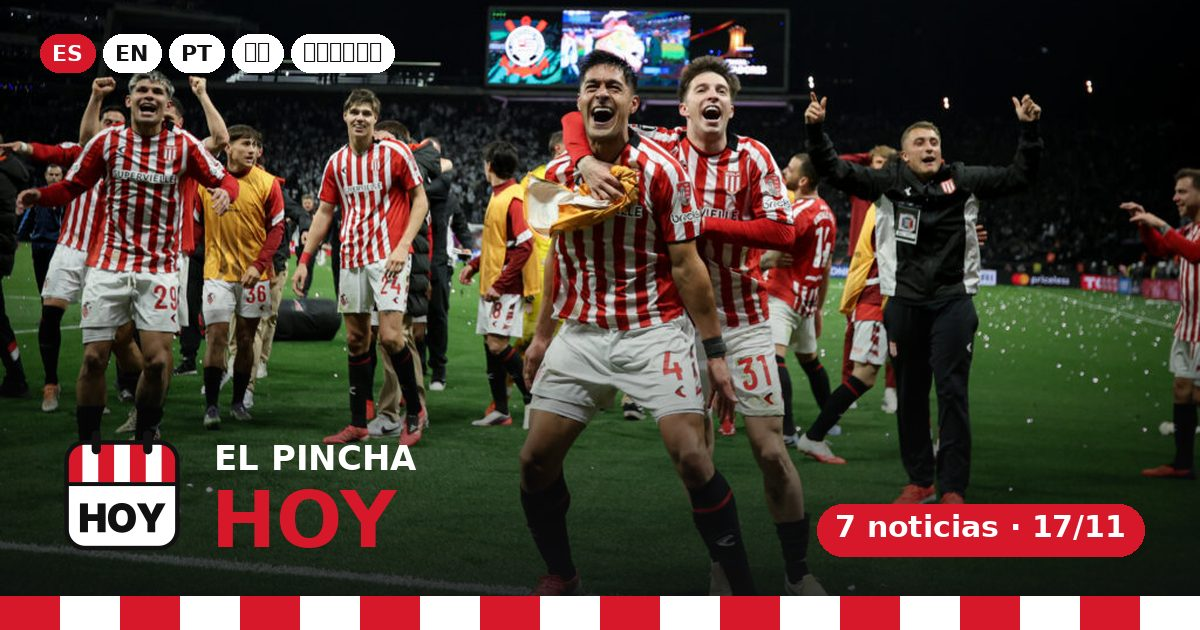
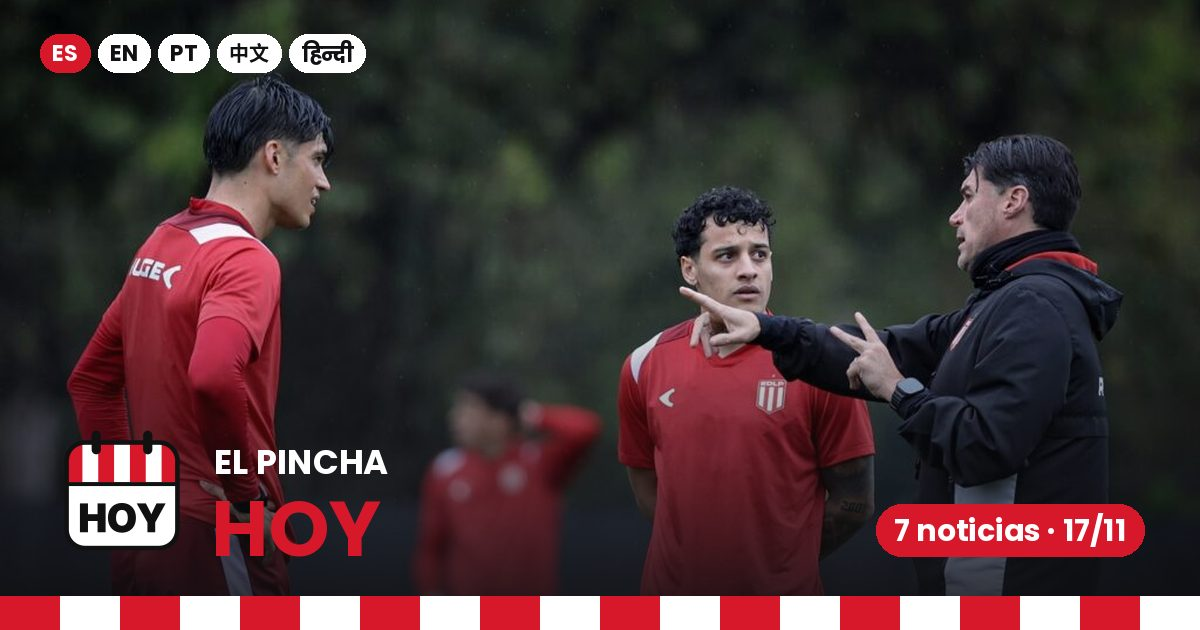
Notipinchas a su página (link debajo de las Siete), foto de Hoy rota (máx. 3 días), otros deportes máx. 1 y un solo día; búsqueda activa y 3 corridas por día
Claude-Session: https://claude.ai/code/session_01S6FXp1PELkUuP6Mekk8MTq

diff --git a/src/styles.css b/src/styles.css
@@ -509,3 +509,9 @@ body:has(.pegado--on) .footer { padding-bottom: 84px; }
 
 .siete__lema { margin: -6px 0 12px; font-size: .92rem; opacity: .8; }
 .siete__titulo:has(+ .siete__lema) { margin-bottom: 8px; }
+
+/* Link a Notipinchas debajo de las Siete (en la portada no va la lista) */
+.siete__mas { margin: 14px 0 0; font-weight: 800; font-size: 1rem; }
+.siete__mas a { display: inline-flex; align-items: center; gap: 8px; text-decoration: none; color: #fff; border-bottom: 2px solid var(--rojo); padding-bottom: 2px; }
+.notipinchas { padding-top: 24px; }
+.notipinchas h1.linea__titulo { font-size: 1.1rem; }

diff --git a/ACTUALIZAR.md b/ACTUALIZAR.md
@@ -1,6 +1,6 @@
 # Instrucciones de actualización automática
 
-Este archivo lo sigue la tarea programada que mantiene El Pincha Hoy. Corre dos veces por día (mañana y noche).
+Este archivo lo sigue la tarea programada que mantiene El Pincha Hoy. Corre tres veces por día, en hora argentina: **00:07** (pasa al día nuevo), **08:07** (lo de la mañana, antes del posteo de X de las 09:47) y **18:07** (lo de la tarde: prácticas, conferencias, parte médico).
 Objetivo: que `data/home.json` y sus traducciones reflejen **cómo está hoy Estudiantes de La Plata**.
 
 ## Reglas de oro
@@ -10,6 +10,11 @@ Objetivo: que `data/home.json` y sus traducciones reflejen **cómo está hoy Est
 3. Horarios siempre en **hora argentina** (`-03:00`). Atención con páginas que muestran otra zona horaria.
 4. **Textos propios**, nunca copiados: titulares y bajadas reescritos, cortos, en tono de hincha pero informativo.
 5. Si no hay novedades, **no se hace commit**.
+
+## Búsqueda activa (obligatoria para las Siete)
+
+La cobertura por RSS es el piso, no el techo. En cada corrida, además de `npm run cobertura`, hacer **al menos 6 búsquedas** (WebSearch, en la misma vuelta) sobre el **fútbol profesional**, con ángulos distintos: parte médico / lesionados, entrenamiento y probable equipo, declaraciones (Medina, jugadores, Verón), el rival que viene (lesiones, calendario, prensa de su país), socios / entradas / viaje, y mercado o calendario que viene (torneos, sedes, fixture). Sumar la prensa del país del rival cuando hay copa (ej. Brasil con Palmeiras).
+Lo que sea nuevo y confirmado reemplaza a lo que ya se contó días anteriores.
 
 ## Primer paso: cobertura por RSS
 
@@ -77,12 +82,14 @@ Las ventanas que ya cerraron se sacan.
 - **proximos**: próximos partidos oficiales confirmados (máx. 4), ordenados por fecha. Sacar los ya jugados.
 - **tabla** y **posiciones**: tabla del torneo en curso (zona de Estudiantes), puesto en la anual y en promedios. Si el torneo terminó, la tabla final con su nombre indicando que es final. `clasifican` según el formato vigente.
 - **proximos[].destacado**: `true` en el partido más importante que viene (activa la cuenta regresiva arriba de todo). Uno solo; sacarlo cuando se juegue.
-- **hoy**: titular + resumen (2 frases; no se muestra en la portada, queda en la página del día) + **Siete noticias** + Notipinchas. Orden de la portada: foto y titular → Siete noticias → próximo partido, último resultado y cuenta regresiva → la canción (plegada) → El Club → Notipinchas en los medios → tabla y números del club.
+- **hoy**: titular + resumen (2 frases; no se muestra en la portada, queda en la página del día) + **Siete noticias** + Notipinchas. Orden de la portada: foto y titular → Siete noticias → link "Notipinchas en los medios" (la lista va en su página, `/notipinchas/`) → próximo partido, último resultado y cuenta regresiva → la canción (plegada) → El Club → Notipinchas en los medios → tabla y números del club.
 - **hoy.siete** ("El Pincha Hoy · Siete noticias", EL bloque de la portada: va primero, debajo de la foto y el titular; todo lo demás es yapa): **exactamente 7**, numeradas por importancia para el hincha, de lo que pasó en cualquier medio o en el club, procesado y con palabras propias. Cada una: `titulo` (corto, concreto: "Correa, en duda para la final") y `texto` (1–2 frases con la información completa, para que no haga falta hacer clic). **Sin fuente ni link** (eso va en Notipinchas). Mismas reglas de verificación que todo (dos fuentes para lo crítico; si algo está en duda, decirlo así). No repetir lo que ya muestra la franja de arriba (fecha y hora del próximo partido, último resultado, cuenta regresiva). Si hay venta de entradas o trámite de socios en curso, va primero. Lo que ya pasó o venció (un evento de anoche) se reemplaza.
-- **hoy.linea** ("Notipinchas en los medios", debajo de las Siete): las notas de los medios y del club de las **últimas 72 h**, de la más nueva a la más vieja, **8 a 14**. Cada una: `hora` (hora real de la publicación, en hora argentina; si el medio no publica la hora, poner `T00:00:00-03:00`), `texto` (una frase propia que resuma la nota), `fuente` ("Club" si es oficial, si no el medio) y `url` (la nota original). En la portada no se muestra la hora. Puede contar lo mismo que una de las Siete: acá el hincha va a la fuente.
+  - **Otros deportes e inferiores** (básquet, vóley, hockey, fútbol femenino, Reserva, juveniles, etc.): **como máximo 1 por día, solo si no hay suficientes noticias del fútbol profesional**, y **una sola vez**: nunca la misma noticia dos días (ni seguidos ni salteados). El título empieza con el deporte o la división ("Básquet: …"). Antes de recurrir a una, hacer la búsqueda activa de arriba. El build lo controla y falla.
+  - Una noticia del fútbol profesional puede seguir si hay **un dato nuevo**; si no cambió nada, darle el lugar a algo nuevo.
+- **hoy.linea** ("Notipinchas en los medios": en la portada solo un link debajo de las Siete; la lista se ve en `/notipinchas/`): las notas de los medios y del club de las **últimas 72 h**, de la más nueva a la más vieja, **8 a 14**. Cada una: `hora` (hora real de la publicación, en hora argentina; si el medio no publica la hora, poner `T00:00:00-03:00`), `texto` (una frase propia que resuma la nota), `fuente` ("Club" si es oficial, si no el medio) y `url` (la nota original). En la portada no se muestra la hora. Puede contar lo mismo que una de las Siete: acá el hincha va a la fuente.
 - **club**: socios y balance solo si hay un dato oficial nuevo. Campaña de socios: mantener el link. No publicar cuotas ni precios: para eso está el link del club. La cita de Verón y el bloque "mística" no se tocan: es el tono del sitio (apoyar al club, no obtener beneficios).
 - **Sección Mundo** (`data/mundo.json` + `data/i18n/mundo.<idioma>.json`): revisar una vez por semana o cuando haya novedad. Filiales nuevas en https://estudiantesdelaplata.com/filiales/, y la situación rumbo al Mundial de Clubes 2029 (ranking CONMEBOL, clasificación). Después de la final del 28/11, actualizar la nota y el bloque del Mundial según el resultado.
-- **hoy.foto** (foto principal, con el titular encima): solo del banco `imagenes/`, y **nunca una foto que el club publicó hace menos de 7 días** (exclusividad del club: no usarlas a la par; el build lo controla y falla) (ver `imagenes/README.md`). Cambiarla cuando cambia el tema del día por una que lo acompañe (partido, festejo, entrenamiento, hinchada, el UNO). Si ninguna corresponde, dejar una neutra (hinchada, estadio): nunca una que diga otra cosa (festejo tras una derrota, un jugador lesionado como si jugara). Para cambiarla: sumar `"hoy"` a sus `usos` (y sacarlo de la anterior) en `imagenes/indice.json`, ajustar `foco` si hace falta, correr `npm run imagenes` y actualizar `id` + `alt` en `home.json` y el `alt` en las 4 traducciones. Revisar el recorte 16:9 antes de publicar.
+- **hoy.foto** (foto principal, con el titular encima): solo del banco `imagenes/`, y **nunca una foto que el club publicó hace menos de 7 días** (exclusividad del club: no usarlas a la par; el build lo controla y falla) (ver `imagenes/README.md`). Cambiarla cuando cambia el tema del día por una que lo acompañe (partido, festejo, entrenamiento, hinchada, el UNO). **Que vaya rotando: no siempre, pero de vez en cuando sí.** La misma foto puede quedar como máximo **3 días seguidos**; al 4.º día hay que poner otra (el build lo controla y falla). No volver a una foto que se usó en los últimos 14 días si hay otra que sirva. Si ninguna corresponde, dejar una neutra (hinchada, estadio): nunca una que diga otra cosa (festejo tras una derrota, un jugador lesionado como si jugara). Para cambiarla: sumar `"hoy"` a sus `usos` (y sacarlo de la anterior) en `imagenes/indice.json`, ajustar `foco` si hace falta, correr `npm run imagenes` y actualizar `id` + `alt` en `home.json` y el `alt` en las 4 traducciones. Revisar el recorte 16:9 antes de publicar.
 - **Fotos nuevas del club**: en la primera corrida después de cada partido (y si no, una vez por semana) correr `npm run fotos`: trae al banco las fotos de la web del club con al menos 7 días de publicadas (nunca las de la última semana), sin publicarlas. La foto del último partido llega recién a la semana: hasta entonces, usar una anterior que acompañe el tema. Mirar las nuevas antes de elegir (algunas son conferencias o capturas de video).
 - **club.campania.foto**: no se toca salvo pedido del dueño del sitio.
 - **video** (canción destacada en Hoy): no se toca. Lo maneja el dueño del sitio. Si viene `vertical: null`, dejarlo así.
